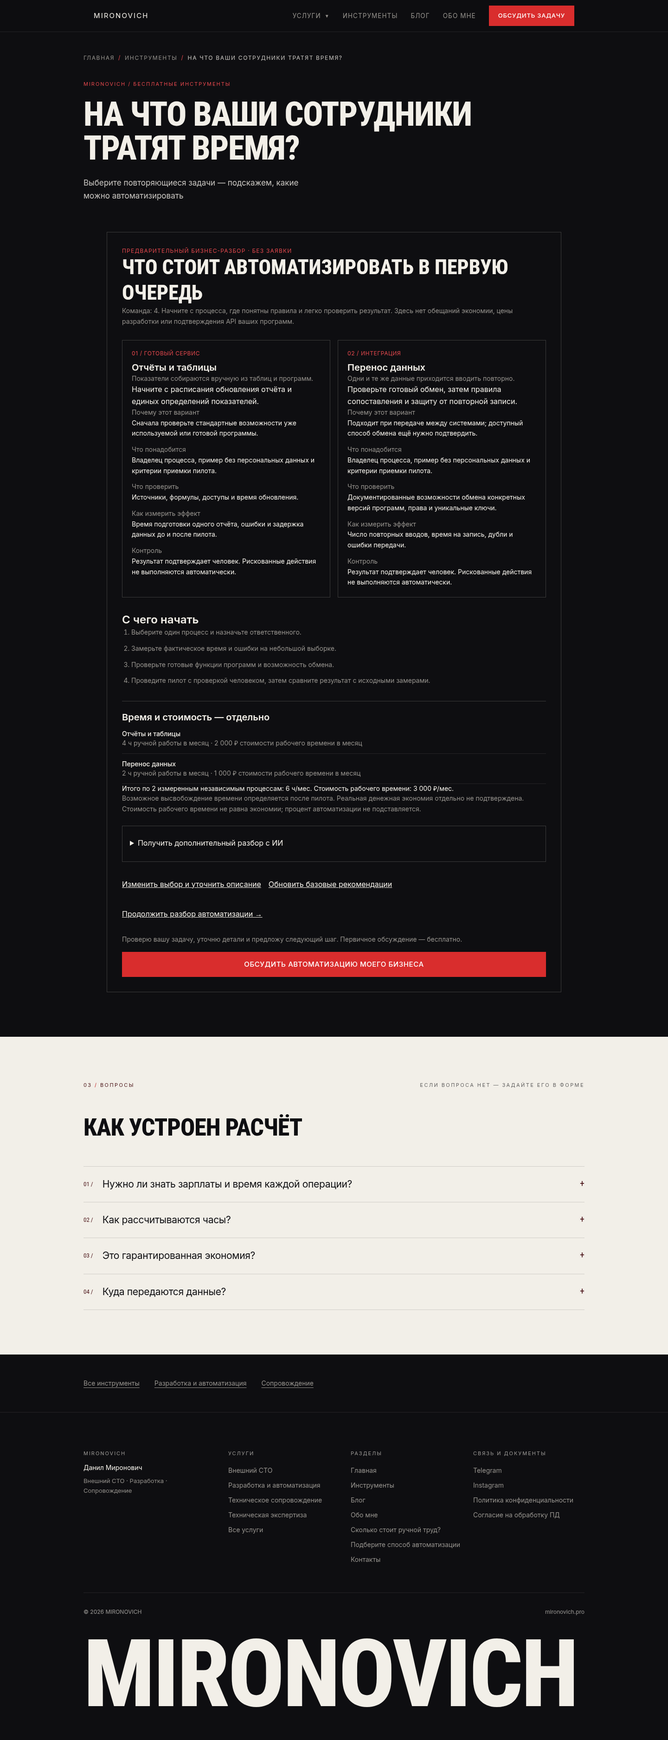
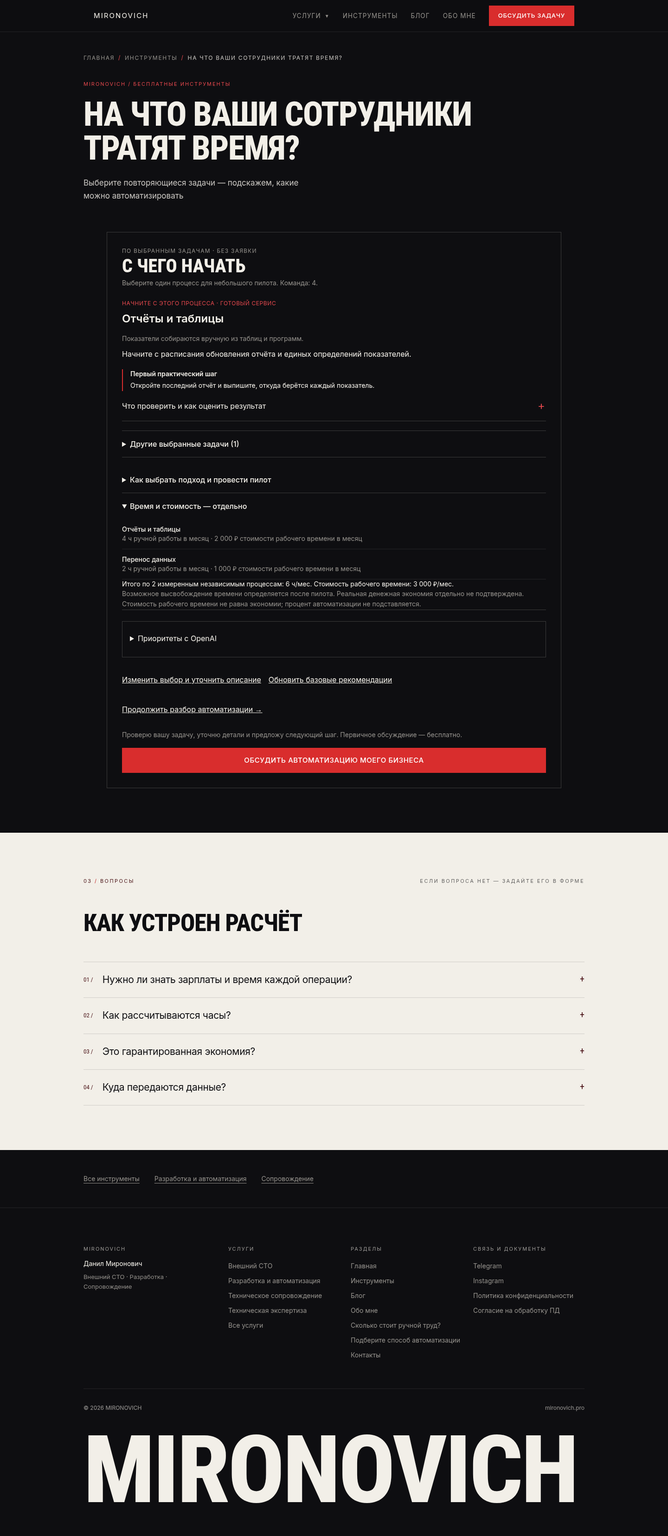
Simplify result consultation and clarify catalog-based OpenAI scope

diff --git a/components/tools/GuidedCalculator.tsx b/components/tools/GuidedCalculator.tsx
@@ -40,36 +40,41 @@ export default function GuidedCalculator({mode}:{mode:"labor-cost"|"automation-c
  async function askAI(){
   if(!notice){setError("Прочитайте уведомление и подтвердите передачу выбранных обезличенных параметров.");return;}
   const input=result??build();if(!input)return;if(!result)show(input);
-  setBusy(true);setAiStatus("Готовим ИИ-разбор. Базовая рекомендация остаётся ниже.");
+  setBusy(true);setAiStatus("OpenAI уточняет порядок задач и подходы. Базовая рекомендация остаётся доступной.");
   const controller=new AbortController();const timer=setTimeout(()=>controller.abort(),16000);
   try{
    const response=await fetch("/api/tools/recommendation",{method:"POST",headers:{"Content-Type":"application/json"},signal:controller.signal,body:JSON.stringify({noticeAccepted:true,input:{tasks:input.tasks,employees:input.employees,systems:input.systems,impact:input.impact}})});
    const data=await response.json();
-   if(response.ok&&data.ok&&Array.isArray(data.cards)){setCards(data.cards);setAiStatus("ИИ предложил порядок и подходы из проверенного каталога. Это гипотеза для пилота.");}
+   if(response.ok&&data.ok&&Array.isArray(data.cards)){setCards(data.cards);setAiStatus("OpenAI предложил приоритеты и подходы из каталога. Произвольное описание бизнеса не анализировалось.");}
    else setAiStatus(typeof data.error==="string"?data.error:"ИИ-разбор недоступен. Базовый результат сохранён.");
   }catch{setAiStatus("ИИ-разбор недоступен или истекло время ожидания. Базовый результат сохранён.");}
   finally{clearTimeout(timer);setBusy(false);}
  }
- const aiBlock=<details className="mt-6 border border-cream/20 p-4"><summary className="min-h-[44px] cursor-pointer py-2 text-cream">Получить дополнительный разбор с ИИ</summary>
+ const aiBlock=<details className="mt-6 border border-cream/20 p-4"><summary className="min-h-[44px] cursor-pointer py-2 text-cream">Приоритеты с OpenAI</summary>
+  <p className="text-sm leading-relaxed">OpenAI расставляет приоритеты выбранных задач и выбирает подход из каталога. Модель пока не анализирует произвольное описание бизнеса — это не индивидуальная ИИ-диагностика.</p>
   <p id="ai-notice" className="text-sm leading-relaxed text-stone">По вашему действию сайт отправит в OpenAI только категории задач, число сотрудников, выбранные типы программ и последствия ошибки. Описание, контакты, документы, пароли и расчёт стоимости не передаются. Не вводите чувствительные сведения. Можно пользоваться базовым результатом без OpenAI. <Link href="/privacy" className="underline">Политика обработки данных</Link>.</p>
   <label className="my-4 flex min-h-[48px] items-start gap-3 text-sm"><input type="checkbox" className="mt-1 h-5 w-5 shrink-0 accent-[#D92D2D]" checked={notice} onChange={e=>setNotice(e.target.checked)} aria-describedby="ai-notice"/><span>Я прочитал уведомление и хочу отправить выбранные обезличенные параметры в OpenAI</span></label>
-  <button type="button" disabled={!notice||busy} className="min-h-[48px] border border-cream/40 px-5 py-3 disabled:opacity-50" onClick={askAI}>{busy?"Готовим разбор…":"Получить ИИ-рекомендацию"}</button>
-  <p role="status" className="text-sm text-stone">{aiStatus||"Внешняя обработка выключена до согласования политики и лимитов. При недоступности ИИ базовый ответ сохранится."}</p>
+  <button type="button" disabled={!notice||busy} className="min-h-[48px] border border-cream/40 px-5 py-3 disabled:opacity-50" onClick={askAI}>{busy?"Уточняем приоритеты…":"Уточнить приоритеты с OpenAI"}</button>
+  <p role="status" className="text-sm text-stone">{aiStatus||"Базовая рекомендация доступна без OpenAI. Если модель недоступна, она сохранится."}</p>
  </details>;
  const summary=result?calculateGuided(result):null;
  if(result&&summary)return <section aria-label="Результат разбора процессов" className="mx-auto max-w-[980px] text-cream">
-  <div className="border border-cream/20 p-5 min-[560px]:p-8"><p className="text-xs uppercase tracking-widest text-signal">Предварительный бизнес-разбор · без заявки</p>
-   <h2 ref={heading} tabIndex={-1} className="scroll-mt-24 font-display text-[clamp(26px,4vw,44px)] font-extrabold uppercase leading-tight">Что стоит автоматизировать в первую очередь</h2>
-   <p className="text-sm leading-relaxed text-stone">Команда: {result.employees}. Начните с процесса, где понятны правила и легко проверить результат. Здесь нет обещаний экономии, цены разработки или подтверждения API ваших программ.</p>
-   {description&&<p className="break-words border-l-2 border-signal pl-3 text-sm">Ваше описание: {description}. Оно используется только вами для уточнения границ задачи, не отправляется в OpenAI.</p>}
+  <div className="border border-cream/20 p-5 min-[560px]:p-8"><p className="text-xs uppercase tracking-widest text-stone">По выбранным задачам · без заявки</p>
+   <h2 ref={heading} tabIndex={-1} className="tool-result-heading scroll-mt-24 break-normal font-display text-[clamp(28px,4vw,40px)] font-extrabold uppercase leading-tight">С чего начать</h2>
+   <p className="text-sm leading-relaxed text-stone">Выберите один процесс для небольшого пилота. Команда: {result.employees}.</p>
+   {description&&<details className="mt-4 text-sm"><summary className="min-h-[44px] cursor-pointer py-2">Ваше описание — без ИИ-анализа</summary><p className="break-words text-stone">{description}</p><p className="text-stone">Описание остаётся на странице для уточнения задачи. OpenAI его не получает и не анализирует.</p></details>}
    <GuidedResultCards cards={cards} />
-   <h3 className="mt-8 text-2xl font-semibold">С чего начать</h3><ol className="list-decimal space-y-3 pl-5 text-sm leading-relaxed text-stone">{startSteps.map(step=><li key={step}>{step}</li>)}</ol>
-   <section aria-label="Измеренные трудозатраты" className="mt-8 border-t border-cream/20 pt-5"><h3 className="text-xl font-semibold">Время и стоимость — отдельно</h3>
+   <details className="mt-5 border-b border-cream/20"><summary className="min-h-[56px] cursor-pointer py-4 text-base font-medium">Как выбрать подход и провести пилот</summary>
+    <ul className="list-disc space-y-3 pl-5 text-sm leading-relaxed text-stone">{[...new Map(cards.map(card=>[card.type,card.reason])).entries()].map(([type,reason])=><li key={type}><span className="text-cream">{type}.</span> {reason}</li>)}</ul>
+    <ol className="mt-5 list-decimal space-y-3 pl-5 text-sm leading-relaxed text-stone">{startSteps.map(step=><li key={step}>{step}</li>)}</ol>
+    <p className="pb-4 text-sm leading-relaxed text-stone">Для пилота нужны ответственный за процесс, пример без персональных данных и критерии приёмки. Действия, влияющие на деньги, клиентов или доступ к данным, подтверждает человек.</p>
+   </details>
+   <details aria-label="Измеренные трудозатраты" className="border-b border-cream/20"><summary className="min-h-[56px] cursor-pointer py-4 text-base font-medium">Время и стоимость — отдельно</summary>
     {summary.rows.map(row=><div key={row.task} className="border-b border-cream/10 py-3 text-sm"><p className="m-0 font-medium">{taskLabels[row.task]}</p><p className="mb-0 text-stone">{row.hours===null?"Время пока не измерено — числовой оценки нет.":`${numberText(row.hours)} ч ручной работы в месяц · ${row.cost===null?"стоимость часа не указана":rubles(row.cost)+" стоимости рабочего времени в месяц"}`}</p>{row.warning&&<p role="alert" className="text-signal">Более 200 часов на участника процесса в месяц. Проверьте частоту, длительность и повторный учёт. Это диагностический порог, не норма рабочего времени.</p>}</div>)}
     <p className="text-sm">{summary.totalHours===null?"Общий итог не сводится: нужны корректные замеры и подтверждение независимости операций.":`Итого по ${summary.counted} измеренным независимым процессам: ${numberText(summary.totalHours)} ч/мес.${summary.totalCost===null?" Стоимость полного итога неизвестна.":" Стоимость рабочего времени: "+rubles(summary.totalCost)+"/мес."}`}</p>
     {summary.overCapacity&&<p role="alert" className="text-sm text-signal">Суммарная нагрузка превышает 200 часов на сотрудника команды. Проверьте пересечения процессов.</p>}
     <p className="text-sm leading-relaxed text-stone">Возможное высвобождение времени определяется после пилота. Реальная денежная экономия отдельно не подтверждена. Стоимость рабочего времени не равна экономии; процент автоматизации не подставляется.</p>
-   </section>
+   </details>
    {aiBlock}
    <div className="mt-6 flex flex-wrap gap-4"><button type="button" disabled={busy} className="min-h-[48px] underline" onClick={()=>{setResult(null);setNotice(false);setAiStatus("");}}>Изменить выбор и уточнить описание</button><button type="button" disabled={busy} className="min-h-[48px] underline" onClick={()=>{setCards(recommendationCards(result));setAiStatus("Базовая рекомендация обновлена.");}}>Обновить базовые рекомендации</button></div>
    {mode==="labor-cost"&&<><Link href="/tools/automation-cost" className="mt-4 inline-flex min-h-[48px] items-center underline" onClick={e=>{try{sessionStorage.setItem(GUIDED_STORAGE_KEY,encodeGuidedTransfer(result));}catch{e.preventDefault();setTransferError("Хранилище вкладки недоступно. Разбор показан здесь; откройте второй инструмент и выберите задачи заново.");}}}>Продолжить разбор автоматизации →</Link>{transferError&&<p role="alert" className="text-sm text-signal">{transferError}</p>}</>}
@@ -81,7 +86,7 @@ export default function GuidedCalculator({mode}:{mode:"labor-cost"|"automation-c
    <fieldset><legend className="mb-4 text-lg font-medium">Выберите повторяющиеся задачи — можно несколько</legend>
     <div className="grid gap-3 sm:grid-cols-2 lg:grid-cols-3">{Object.entries(taskLabels).map(([key,label],index)=><label key={key} className={"flex min-h-[86px] cursor-pointer items-center gap-3 border p-4 text-sm has-[:focus-visible]:outline has-[:focus-visible]:outline-2 has-[:focus-visible]:outline-signal "+(tasks.includes(key as Task)?"border-signal bg-signal/10":"border-cream/25")}><input type="checkbox" name="tasks" value={key} className="h-5 w-5 shrink-0 accent-[#D92D2D]" checked={tasks.includes(key as Task)} onChange={()=>toggle(key as Task)}/><span><span className="mb-1 block text-[10px] tracking-widest text-stone">{String(index+1).padStart(2,"0")}</span>{label}</span></label>)}</div>
    </fieldset>
-   {(tasks.includes("other")||mode==="automation-cost")&&<div className="mt-5"><label htmlFor="guided-description" className="mb-2 block text-sm">Опишите задачу своими словами — необязательно</label><textarea id="guided-description" value={description} maxLength={400} className={controlClass+" min-h-[100px] py-3"} onChange={e=>{setDescription(e.target.value);if(e.target.value.trim()&&!tasks.length)setTasks(["other"]);}} aria-describedby="description-note"/><p id="description-note" className="text-xs text-stone">Без контактов, паролей и данных клиентов. Описание остаётся в памяти страницы до вашего согласия на отправку заявки. Для нестандартной задачи базовый ответ предложит, что уточнить.</p></div>}
+   {(tasks.includes("other")||mode==="automation-cost")&&<div className="mt-5"><label htmlFor="guided-description" className="mb-2 block text-sm">Опишите задачу своими словами — необязательно</label><textarea id="guided-description" value={description} maxLength={400} className={controlClass+" min-h-[100px] py-3"} onChange={e=>{setDescription(e.target.value);if(e.target.value.trim()&&!tasks.length)setTasks(["other"]);}} aria-describedby="description-note"/><p id="description-note" className="text-xs text-stone">Без контактов, паролей и данных клиентов. Описание остаётся в памяти страницы до вашего согласия на отправку заявки. OpenAI его пока не анализирует: текущие рекомендации основаны на выбранных категориях.</p></div>}
    <fieldset className="mt-7"><legend className="text-lg font-medium">Сколько сотрудников в команде?</legend><p className="text-sm text-stone">Считаем от одного человека. Участников каждой задачи можно уточнить отдельно.</p><div className="flex flex-wrap items-center gap-2">{EMPLOYEE_PRESETS.map(n=><button type="button" key={n} aria-pressed={employees===String(n)} onClick={()=>setEmployees(String(n))} className={"min-h-[48px] min-w-[52px] border px-3 "+(employees===String(n)?"border-signal bg-signal/10":"border-cream/30")}>{n}</button>)}<label className="ml-1 text-sm" htmlFor="guided-employees">Точное число</label><input id="guided-employees" inputMode="numeric" value={employees} maxLength={5} onChange={e=>setEmployees(e.target.value)} className={controlClass+" w-[95px]"}/></div></fieldset>
    {mode==="automation-cost"&&<details className="mt-6 border-t border-cream/20 pt-4"><summary className="min-h-[44px] cursor-pointer py-2">Два уточнения — если знаете ответы</summary><fieldset><legend className="mb-3">Какие программы используете?</legend><div className="grid gap-2 sm:grid-cols-2">{Object.entries(systems).map(([key,label])=><label key={key} className="flex min-h-[48px] items-center gap-3 text-sm"><input type="checkbox" className="h-5 w-5 accent-[#D92D2D]" checked={selectedSystems.includes(key as GuidedInput["systems"][number])} onChange={()=>setSystems(old=>{const k=key as GuidedInput["systems"][number];return old.includes(k)?old.filter(x=>x!==k):["none","unknown"].includes(k)?[k]:[...old.filter(x=>!["none","unknown"].includes(x)),k];})}/>{label}</label>)}</div></fieldset><label htmlFor="guided-impact" className="mb-2 mt-5 block text-sm">Что будет, если автоматизация ошибётся?</label><select id="guided-impact" className={controlClass} value={impact} onChange={e=>setImpact(e.target.value as GuidedInput["impact"])}>{Object.entries(impacts).map(([key,label])=><option key={key} value={key}>{label}</option>)}</select></details>}
    <details className="mt-7 border-y border-cream/20 py-3"><summary className="min-h-[44px] cursor-pointer py-2 text-base">Уточнить расчёт времени — необязательно</summary><p className="text-sm leading-relaxed text-stone">Без замеров покажем рекомендации без часов и рублей. Число повторений — на одного участника процесса. Учитывайте каждую операцию только в одном процессе.</p>

diff --git a/lib/tools/catalog.ts b/lib/tools/catalog.ts
@@ -13,6 +13,17 @@ export const catalog:Record<Task,Entry>={
  calls:{problem:"Разговоры приходится переслушивать для разбора качества.",solution:"При наличии законного основания протестируйте расшифровку и поиск тем; выводы проверяйте по записи, решения о людях оставляйте человеку.",allowed:["service","ai","wait"],check:"Основание записи, уведомления участников, доступы, хранение и точность русского распознавания.",measure:"Точность транскрипта и оценок на размеченной выборке, время проверки и ложные выводы."},
  other:{problem:"Состав и границы задачи пока не определены.",solution:"Опишите вход, результат, исполнителя и типичный пример. До проверки процесса разработку не заказывать.",allowed:["wait"],check:"Повторяемость, правила, исключения, чувствительность данных и права на их использование.",measure:"Замерьте время и ошибки на нескольких реальных выполнениях как исходную точку."},
 };
+export const firstSteps: Record<Task, string> = {
+ reporting: "Откройте последний отчёт и выпишите, откуда берётся каждый показатель.",
+ transfer: "Проследите путь одной записи: откуда её копируют, куда вставляют и какие поля переносят.",
+ crm: "Разберите недавнюю заявку: где она появилась, кто её получил и что произошло дальше.",
+ documents: "Возьмите типовой документ без реквизитов и отметьте поля, которые заполняются вручную.",
+ answers: "Соберите частые вопросы клиентов и согласуйте ответы на них с ответственным сотрудником.",
+ training: "Попросите наставника перечислить задания новичка и материалы, которые он выдаёт повторно.",
+ control: "Выберите одно типичное отклонение и договоритесь, кто должен получить уведомление.",
+ calls: "До работы с записями проверьте основание записи, уведомление участников и права доступа.",
+ other: "Опишите один пример: что поступает на вход, что делает сотрудник и какой результат нужен.",
+};
 const reasons:Record<Approach,string>={service:"Сначала проверьте стандартные возможности уже используемой или готовой программы.",integration:"Подходит при передаче между системами; доступный способ обмена ещё нужно подтвердить.",rules:"Повторяемые условия можно описать правилами, без языковой модели.",ai:"Полезность смысловой обработки — гипотеза для пилота, а не гарантия. Сначала сравните с правилами и готовым сервисом.",wait:"Сначала подтвердите необходимость, права и границы задачи."};
 export function baseApproach(task:Task,input:GuidedInput):Approach {
  if(task==="other")return "wait";
@@ -22,6 +33,6 @@ export function baseApproach(task:Task,input:GuidedInput):Approach {
 }
 export function recommendationCards(input:GuidedInput,choices?:{task:Task;approach:Approach}[]) {
  const ordered=choices??input.tasks.map(task=>({task,approach:baseApproach(task,input)}));
- return ordered.map(({task,approach})=>({task,title:taskLabels[task],problem:catalog[task].problem,solution:catalog[task].solution,type:approaches[approach],reason:reasons[approach],requirements:"Владелец процесса, пример без персональных данных и критерии приемки пилота.",checks:catalog[task].check,measure:catalog[task].measure,human:input.impact!=="low"||["documents","answers","calls"].includes(task)?"Результат подтверждает человек. Рискованные действия не выполняются автоматически.":"Назначьте ответственного и способ отмены ошибки."}));
+ return ordered.map(({task,approach})=>({task,title:taskLabels[task],problem:catalog[task].problem,solution:catalog[task].solution,firstStep:firstSteps[task],type:approaches[approach],reason:reasons[approach],requirements:"Владелец процесса, пример без персональных данных и критерии приемки пилота.",checks:catalog[task].check,measure:catalog[task].measure,human:input.impact!=="low"||["documents","answers","calls"].includes(task)?"Результат подтверждает человек. Рискованные действия не выполняются автоматически.":"Назначьте ответственного и способ отмены ошибки."}));
 }
 export const startSteps=["Выберите один процесс и назначьте ответственного.","Замерьте фактическое время и ошибки на небольшой выборке.","Проверьте готовые функции программ и возможность обмена.","Проведите пилот с проверкой человеком, затем сравните результат с исходными замерами."];

diff --git a/components/tools/AutomationResult.tsx b/components/tools/AutomationResult.tsx
@@ -71,7 +71,28 @@ export default function AutomationResult({ input, diagnosis, labor, description,
   </section>;
 }
 
-/** v2 cards deliberately contain catalog text, never model-authored financial claims. */
+/** Only task-specific advice is repeated per process; shared pilot guidance lives once below. */
 export function GuidedResultCards({ cards }: { cards: ReturnType<typeof import("@/lib/tools/catalog").recommendationCards> }) {
-  return <div className="mt-7 grid gap-4 md:grid-cols-2">{cards.map((card,index)=><article key={card.task} className="min-w-0 break-words border border-cream/20 p-5"><p className="m-0 text-xs uppercase tracking-wider text-signal">{String(index+1).padStart(2,"0")} / {card.type}</p><h3 className="mt-2 text-xl font-semibold">{card.title}</h3><p className="text-sm text-stone">{card.problem}</p><p className="text-base leading-relaxed">{card.solution}</p><dl className="space-y-3 text-sm leading-relaxed">{[["Почему этот вариант",card.reason],["Что понадобится",card.requirements],["Что проверить",card.checks],["Как измерить эффект",card.measure],["Контроль",card.human]].map(([label,value])=><div key={label}><dt className="text-stone">{label}</dt><dd className="m-0">{value}</dd></div>)}</dl></article>)}</div>;
+  const [primary, ...others] = cards;
+  if (!primary) return null;
+  const content = (card: typeof primary, first: boolean) => <article aria-label={first ? "Первый процесс" : card.title} className="min-w-0 break-words">
+    <p className="mb-2 text-xs uppercase tracking-wider text-signal">{first ? "Начните с этого процесса" : "Ещё одна задача"} · {card.type}</p>
+    <h3 className="m-0 text-2xl font-semibold leading-snug">{card.title}</h3>
+    <p className="mb-2 mt-4 text-sm leading-relaxed text-stone">{card.problem}</p>
+    <p className="m-0 text-base leading-relaxed">{card.solution}</p>
+    <div className="mt-5 border-l-2 border-signal pl-4">
+      <p className="mb-1 text-sm font-semibold">Первый практический шаг</p>
+      <p className="m-0 text-sm leading-relaxed">{card.firstStep}</p>
+    </div>
+    <ResultSection title="Что проверить и как оценить результат">
+      <dl className="space-y-4"><div><dt className="font-medium text-cream">Перед запуском</dt><dd className="m-0 mt-1">{card.checks}</dd></div><div><dt className="font-medium text-cream">После пилота</dt><dd className="m-0 mt-1">{card.measure}</dd></div></dl>
+    </ResultSection>
+  </article>;
+  return <div className="mt-6">
+    {content(primary, true)}
+    {others.length > 0 && <details className="mt-5 border-y border-cream/20">
+      <summary className="min-h-[56px] cursor-pointer py-4 text-base font-medium">Другие выбранные задачи ({others.length})</summary>
+      <div className="grid gap-7 pb-5 md:grid-cols-2">{others.map(card => <div key={card.task}>{content(card, false)}</div>)}</div>
+    </details>}
+  </div>;
 }

diff --git a/components/tools/ToolLead.tsx b/components/tools/ToolLead.tsx
@@ -14,7 +14,7 @@ export default function ToolLead({ context, description = "", variant = "primary
       <div id="tool-contact">
         <h3 className="m-0 mb-3 font-display text-2xl font-extrabold uppercase text-cream">{actionPlan ? "Обсудим вашу задачу" : "Обсудим следующий шаг"}</h3>
         <p className="m-0 mb-6 text-[14px] leading-[1.6] text-stone">{actionPlan ? "Проверю вашу задачу, уточню детали и предложу следующий шаг. Первичное обсуждение — бесплатно. Формат и условия подробного разбора согласуем отдельно. Ответы и названия программ попадут в заявку только после согласия и отправки формы. Сервер проверит параметры, сформирует базовую рекомендацию и пересчитает замеры; описание задачи ниже можно изменить." : "В заявку войдут параметры и результат расчёта. Сервер проверит данные и пересчитает показатели. Название процесса не передаётся; описание ниже можно изменить. Первичное обсуждение бесплатно."}</p>
-        <LeadForm toolContext={context} defaultTask={description.slice(0, 2000) || (actionPlan ? "Хочу обсудить результат диагностики и запросить подробный разбор." : "Хочу обсудить результат расчёта и получить план внедрения.")} />
+        <LeadForm toolContext={context} defaultTask={description.slice(0, 2000) || (actionPlan ? "Хочу обсудить выбранные задачи и следующий шаг автоматизации." : "Хочу обсудить результат расчёта и получить план внедрения.")} />
       </div>}
   </div>;
 }

diff --git a/app/globals.css b/app/globals.css
@@ -18,6 +18,10 @@ body {
 /* signal red keeps ≥3:1 against both graphite (4.0) and cream (4.2) */
 :focus-visible { outline: 2px solid #D92D2D; outline-offset: 3px; }
 
+/* A programmatically focused result heading is a reading target, not a control.
+ * Keep the global visible focus on links, buttons, inputs and disclosure summaries. */
+.tool-result-heading:focus { outline: none; }
+
 /*
  * Signal red as TEXT. The brand red #D92D2D stays for fills, borders and the focus
  * ring, but as small text it falls short of WCAG AA (4.0:1 on graphite, 4.2:1 on

diff --git a/docs/tools/individual-ai-next-stage.md b/docs/tools/individual-ai-next-stage.md
@@ -1,0 +1,34 @@
+# Предложение следующего этапа: индивидуальный разбор процесса
+
+Статус: проект решения для согласования, не реализован и не включён. Текущий PR не меняет legal gate, переменные Railway или правила передачи данных.
+
+## Что умеет текущая версия
+
+Базовый результат строится по выбранным категориям. При разрешённом вызове OpenAI модель может переставить задачи и выбрать подход из проверяемого каталога. Текущий endpoint принимает только категории, число сотрудников, типы систем и последствия ошибки. Свободный текст не принимает даже при поддельном клиенте. Поле «Опишите задачу» остаётся в памяти страницы и отдельно может попасть в редактируемую заявку после согласия на неё. Оно не анализируется OpenAI. Поэтому текущий сценарий не называется персональной ИИ-диагностикой.
+
+## Предлагаемый сценарий
+
+1. Сначала показать полезную базовую рекомендацию без внешней обработки.
+2. Отдельным действием предложить «Разобрать один процесс по описанию». Объяснить отличие от текущего выбора приоритетов. Не делать этот этап обязательным для результата или заявки.
+3. Собрать только структурированное описание: вход процесса, ручные действия, желаемый выход, типы программ, правила и исключения, последствия ошибки. По одному процессу, с общим лимитом длины. Числовые замеры и расчёты — в существующем проверяемом коде.
+4. До передачи дать инструкцию с примером обезличивания. Вместо «клиент Иван Петров, телефон…» — «клиент», вместо названия конкретного контрагента — «поставщик». Запретить имена, контакты, номера документов, реквизиты, пароли, медицинские/кадровые сведения, коммерческие секреты и исходные файлы. Первый этап — только текст, без вложений, ссылок и голосовых записей.
+5. Предварительно проверить ввод локально и на сервере: ограничение длины, явные контакты/URL/токены/реквизиты и подозрительные конструкции. При обнаружении чувствительных данных отклонять передачу и просить исправить текст, не пытаться отправить его в LLM «для очистки». Регулярные выражения не гарантируют обезличивание и не определяют все ФИО или секреты.
+6. Показать отдельный предпросмотр **точного payload**, который получит OpenAI. Пользователь редактирует его и подтверждает отдельное согласие именно на анализ описания. Любое изменение текста сбрасывает подтверждение. Согласие на заявку, текущие приоритеты или аналитику его не заменяет. Нужна отдельная редакция уведомления/согласия; согласование с юристом обязательно.
+7. Лишь после подтверждения payload и явной кнопки отправить один запрос. Отказ пользователя сохраняет базовый результат. Обработка без утверждённых юридических оснований не разрешается даже при нажатом checkbox.
+
+## Техническая схема для обсуждения
+
+Отдельный versioned endpoint и схема, например `/api/tools/process-analysis`, не расширение существующего endpoint скрытым полем description. Существующий `/recommendation` продолжает отклонять произвольный текст. Отдельный серверный feature flag и отдельный code gate, оба off по умолчанию; UI не обещает доступность, пока они не согласованы.
+
+Сервер принимает только whitelisted поля и актуальную версию уведомления, проверяет размер потока, UTF-8, Origin, скорость и устойчивый общий бюджет. Свободный текст передаётся как недоверенные данные с отдельными системными правилами, не как инструкции. Нет tools, браузера, автоматических действий, загрузки URL, доступа к CRM или данным других посетителей. store:false; это не обещание нулевого хранения у поставщика. Ключ — серверный, отдельного ограниченного проекта. Никаких текстов, ключей или ответов в логах и аналитике; до подключения проверить инфраструктурные журналы.
+
+План ответа: краткое понимание процесса, предлагаемое решение, обоснование «готовый сервис → правила/интеграция → ИИ при необходимости», первый шаг, проверяемые предположения, недостающие сведения, риски, небольшой пилот и критерии успеха. Строгий Structured Outputs + серверная проверка: допустимые типы, длина, состав полей, отсутствие исполняемых действий/ссылок/числовых обещаний экономии. Неизвестные возможности конкретной программы маркируются как непроверенные. Сам JSON Schema не гарантирует правдивость текста и защиту от prompt injection: нужны контроль содержания, тесты и ручная приёмка. При несоответствии или отказе — базовый ответ, а не показ непроверенного вывода.
+
+Ни бюджет, ни срок, ни доля автоматизации, ни денежная экономия не выводятся из описания. Не требовать точных замеров для первой качественной гипотезы; если пользователь их предоставит позже, пересчёт только кодом. В рискованных операциях советовать человека и пилот; никаких автоплатежей, кадровых решений или самостоятельной отправки клиентам.
+
+## Условия до включения
+
+- Юрист/владелец подтверждают состав, цель, получателей, страны, основание и сроки обработки, допустимость регионального доступа к OpenAI, порядок отзыва и удаления. Обновляются опубликованные privacy/consent и отдельное уведомление; старое согласие не трактуется расширительно.
+- Согласованы модель/snapshot, актуальные тарифы, лимиты входа/выхода, таймаут и конкурентность. Устойчивый общий лимитер и атомарное резервирование бюджета защищают все реплики/рестарты; при недоступном контроле — fail closed. Нужен стоп-механизм по расходам, а не только уведомления в кабинете.
+- Синтетические обезличенные примеры проходят тесты на prompt injection, маскированные контакты, секреты, повторное подтверждение после изменения, отказ/неполный JSON/таймаут, hallucinated API и финансовые обещания. Настоящие тексты посетителей в тесты/скриншоты не включаются.
+- После отдельного разрешения — ограниченный staging-пилот с mock- и затем согласованными живыми вызовами; оценка полезности, правдивости и безопасности человеком. Перед production — отдельное go/no-go и разрешение владельца. Это предложение само по себе не включает никакую внешнюю обработку.

diff --git a/docs/tools/testing-v2.md b/docs/tools/testing-v2.md
@@ -14,13 +14,13 @@
 
 | Команда | Результат |
 |---|---|
-| npm test | 165/165 PASS (148 прежних + 17 новых) |
+| npm test | 166/166 PASS (148 прежних + 18 новых) |
 | npm run lint | PASS, 0 предупреждений |
 | npm run typecheck | PASS |
 | npm run build | PASS |
 | git diff --check | PASS |
 
-Сборка запускалась локально с NEXT_PUBLIC_SITE_URL=http://localhost:3000 и SITE_NOINDEX=1. Это честная non-production-конфигурация, а не обход release guard. Существующий guard сообщил о прежних незаполненных юридических проектах и ненастроенном доверенном IP. Действующая legacy-публикационная оговорка не изменена и не трактуется как согласование OpenAI. Production-сборка/релиз с включённым внешним ИИ не заявляются готовыми.
+Последняя сборка запускалась локально с NEXT_PUBLIC_SITE_URL=http://localhost:3001 и SITE_NOINDEX=1 (первичная проверка v2 использовала порт 3000). Это честная non-production-конфигурация, а не обход release guard. Существующий guard сообщил о прежних незаполненных юридических проектах и ненастроенном доверенном IP. Действующая legacy-публикационная оговорка не изменена и не трактуется как согласование OpenAI. Production-сборка/релиз с включённым внешним ИИ не заявляются готовыми.
 
 После build проверен локальный `next start`: три основных сценария повторно прошли на оптимизированной сборке. Нового production deploy, изменения Railway или merge не выполнялось.
 
@@ -38,7 +38,8 @@
 10. Responses API / strict JSON Schema / store:false / max_output_tokens / server Authorization.
 11. Некорректный JSON, incomplete, refusal, дубли и неподходящий approach.
 12. Таймаут, upstream/local rate limits, общий дневной резерв и предел двух параллельных обращений.
-13. Ограниченное потоковое тело, Origin, Next internal URL/proxy protocol; X-Forwarded-Host не принимается как доверенный.
+13. Конкретный отдельный первый шаг для каждого процесса, без выдуманных финансовых обещаний.
+14. Ограниченное потоковое тело, Origin, Next internal URL/proxy protocol; X-Forwarded-Host не принимается как доверенный.
 
 Платные OpenAI-вызовы не выполнялись. Контракты провайдера тестируются подменённым fetch; реальную доступность модели, цену списания и задержку конкретного аккаунта надо проверить на staging после правового/бюджетного разрешения. Расчёт тарифов и ограничения — ai-recommendations.md.
 
@@ -58,6 +59,9 @@ Axe: **0 нарушений на двух проверенных экранах 
 
 Скриншоты:
 
+- [Результат новичка, 375 px — короткий заголовок без красной рамки](screenshots/result-beginner-375.png)
+- [Первый практический шаг в реальном viewport 375×812](screenshots/result-beginner-375-viewport.png)
+- [Раскрытые подробности других задач](screenshots/result-details-1440.png)
 - [Начало labor-cost, 375 px](screenshots/labor-375.png)
 - [Начало labor-cost, 1440 px](screenshots/labor-1440.png)
 - [Начало automation-cost, 375 px](screenshots/automation-375.png)
@@ -90,3 +94,13 @@ NODE_PATH=/tmp/mironovich-browser/node_modules node scripts/test-tools-browser.m
 ```
 
 Нужен Chromium: на этой машине использовался /usr/bin/chromium. Можно задать CHROMIUM_PATH или установить Playwright Chromium в отдельном test-окружении. TOOLS_BASE_URL меняет адрес локального preview, TOOLS_SCREENSHOTS_DIR и TOOLS_BROWSER_REPORT — места артефактов. SKIP_VIEWPORTS=1 пропускает только начальные десять снимков, сквозные сценарии и пять ширин результата остаются.
+
+## Финальная UX-доработка PR #7
+
+Повторные проверки выполнены в той же ветке feature/tools-ai-guided-v2. Результат теперь начинается с короткого «С чего начать» и одного процесса: проблема, решение, первый практический шаг. Остальные задачи, проверки, критерии успеха, условия пилота и финансовые замеры закрыты по умолчанию. Причины выбора одинакового подхода объединяются в общем блоке; общие требования к пилоту и контролю человеком не повторяются в карточках. Детали и предупреждения расчёта не удалены, их можно раскрыть клавиатурой.
+
+Причина красной рамки в прежнем result-beginner-375.png: глобальный :focus-visible применялся к программно фокусируемому h2 после клавиатурного запуска. Добавлено только scoped-правило .tool-result-heading:focus; общий фокус кнопок, полей, ссылок и summary не отключён. Браузерный тест проверяет фактический фокус на h2, computed outlineStyle=none, затем Tab и видимый outline раскрываемой секции. На пяти ширинах заголовок занимает не более двух строк и не создаёт горизонтального переполнения. На viewport 375×812 конец первого практического шага находится внутри окна. Проверена клавиатурная работа закрытых других задач и вложенных подробностей. Обновлены реальные скриншоты; два новых снимка показывают viewport и раскрытые детали.
+
+В UI текущая функция называется «Приоритеты с OpenAI», действие — «Уточнить приоритеты с OpenAI». До согласия явно сказано: модель расставляет приоритеты и выбирает подход из каталога, но не анализирует произвольное описание бизнеса и не проводит индивидуальную ИИ-диагностику. Те же границы отражены у поля описания и в результате. Текущий whitelist и tests, запрещающие отправку description, сохранены. Предложение следующего этапа — отдельный документ individual-ai-next-stage.md; это не реализация и не разрешение на внешнюю обработку.
+
+Конфигурация OpenAI, .env.example, серверный endpoint и правовой gate не менялись этой UX-доработкой. Railway не настраивался, OpenAI не включался, живые API-вызовы не выполнялись. Merge и deployment не выполнялись.

diff --git a/docs/tools/ai-recommendations.md b/docs/tools/ai-recommendations.md
@@ -20,7 +20,7 @@
 
 Schema генерируется по выбранным task IDs; additionalProperties:false, strict:true. Модель предлагает порядок и подход из ограниченного списка. Сервер проверяет полный состав, отсутствие дублей, допустимость approach для каждого процесса и блокирует активную рекомендацию анализа звонков при неизвестном/повышенном риске. Пользовательские строки не попадают в prompt; модель не получает инструменты, браузер или документы. Это устраняет канал prompt injection через описание вместо ненадёжной попытки «очистить» произвольный prompt.
 
-Карточки `{task,title,problem,solution,type,reason,requirements,checks,measure,human}` формируются из проверяемого каталога после выбора модели. Поля с процентом экономии, бюджетом или сроками отсутствуют. LLM не пишет арифметику и не добавляет утверждения об API. Модель не является независимым аудитом или финансовым прогнозом.
+Карточки `{task,title,problem,solution,firstStep,type,reason,requirements,checks,measure,human}` формируются из проверяемого каталога после выбора модели. Поля с процентом экономии, бюджетом или сроками отсутствуют. LLM не пишет арифметику и не добавляет утверждения об API. Модель не является независимым аудитом или финансовым прогнозом.
 
 ## Данные и совместимость
 
@@ -68,3 +68,7 @@ Schema генерируется по выбранным task IDs; additionalProp
 Текущая конфигурация legal.published=false сохраняет старые действующие тексты; черновики содержат незаполненные места. Ни одна старая публикационная оговорка о Railway/Telegram не разрешает обработку через OpenAI автоматически. Для OpenAI подготовлено дополнение `docs/tools/openai-privacy-review.md`, которое **не является опубликованной политикой/согласием**. Сначала согласовать получателей/страны/основания, сроки, удаление, допустимость доступа по региону и связку с техническими журналами. Затем обновить публичные privacy/consent, сверить отдельное уведомление на форме, установить общий устойчивый бюджетный контроль и сделать staging-тест. Только после этого с отдельным разрешением на релиз менять gate/переменные и выкатывать production. В этой задаче это не выполнено и API остаётся off.
 
 Официальные контракты: [Responses create](https://developers.openai.com/api/reference/resources/responses/methods/create), [Structured Outputs](https://developers.openai.com/api/docs/guides/structured-outputs?api-mode=responses), [migration: text.format](https://developers.openai.com/api/docs/guides/migrate-to-responses), [data controls](https://developers.openai.com/api/docs/guides/your-data). store:false отключает хранение состояния Responses, **не обещает zero data retention** для abuse monitoring и не отменяет правовые основания передачи.
+
+## Следующий этап — только предложение
+
+UI прямо сообщает, что текущая модель не анализирует произвольное описание бизнеса. План отдельного согласованного сценария с обезличенным текстом, предпросмотром payload и самостоятельным согласием описан в [individual-ai-next-stage.md](individual-ai-next-stage.md). Текущая схема запроса, gate и переменные не изменены; запрет свободного текста в `/recommendation` сохраняется.

diff --git a/docs/tools/README.md b/docs/tools/README.md
@@ -6,7 +6,10 @@
 - [Схема API, переменные Railway, стоимость и ограничения](ai-recommendations.md)
 - [Дополнение для юридической проверки, не опубликовано](openai-privacy-review.md)
 - [Отчёт проверки и скриншоты](testing-v2.md)
+- [Предложение индивидуального ИИ-разбора следующего этапа — не включено](individual-ai-next-stage.md)
 
 Формулы и валидация v2 — `lib/tools/guided.ts`; проверяемые рекомендации — `catalog.ts`; серверный Responses API — `recommendation-api.ts` и `/api/tools/recommendation`; code gate — `config/ai-recommendations.ts`. Сценарии UI объединены в GuidedCalculator, маршруты используют прежние LaborCalculator/AutomationCalculator. Старые числовые модели и Wizard сохранены для совместимости, но в новом публичном сценарии не вызываются.
 
 Сначала базовая польза, затем необязательные замеры и отдельно ИИ-действие. Стоимость рабочего времени не названа экономией; процент автоматизации, бюджет внедрения и сроки не генерируются.
+
+На странице результата сразу видны проблема, решение и первый практический шаг одного процесса. Другие задачи, проверки, условия пилота и замеры раскрываются отдельно. Текущая модель только уточняет приоритеты и выбирает подходы из каталога; произвольное описание бизнеса не анализируется.
